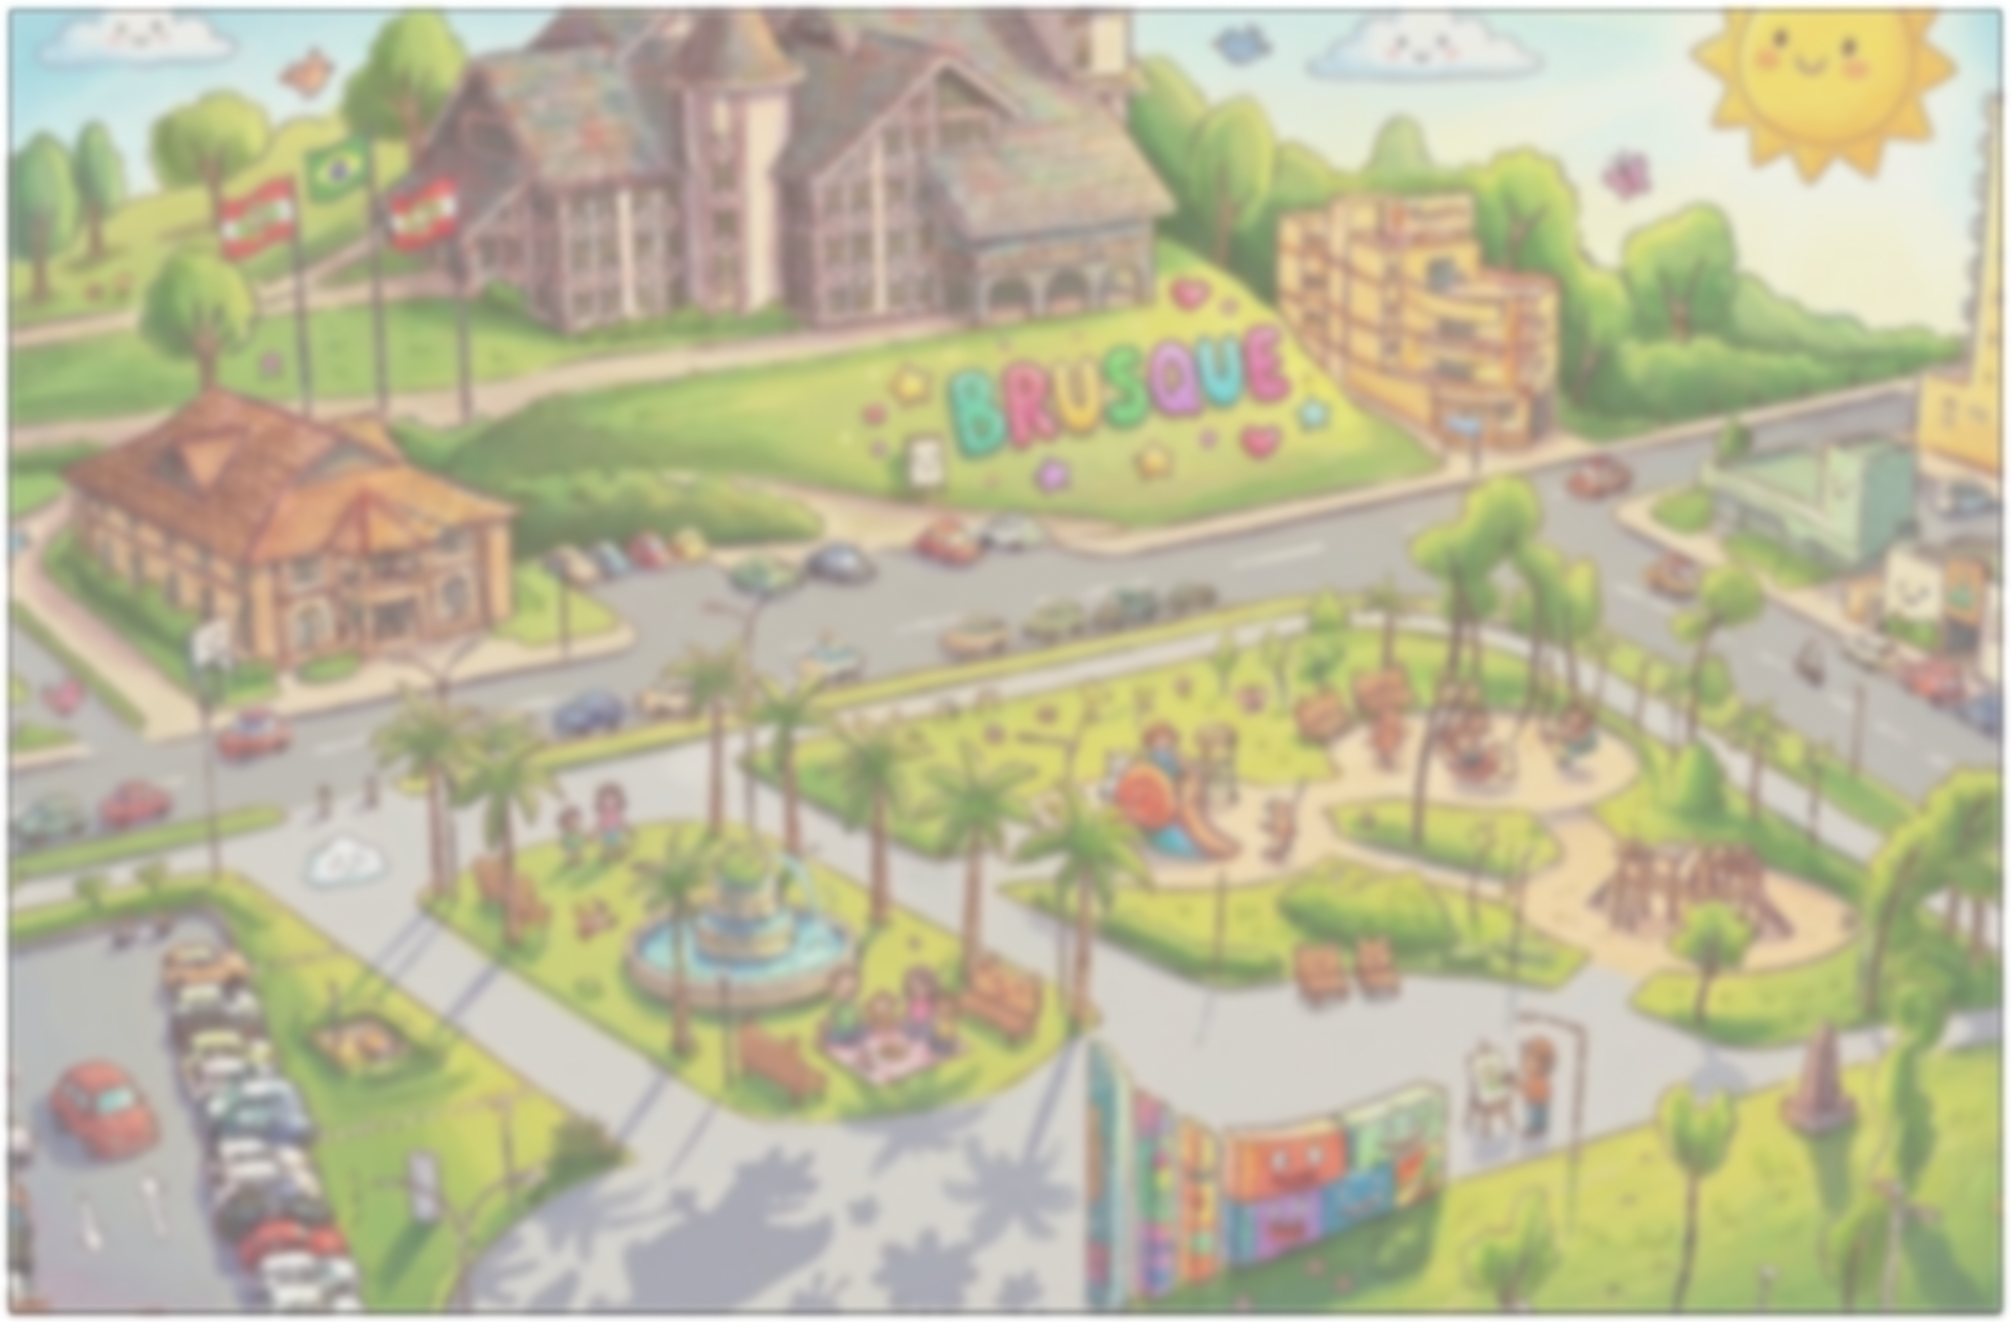
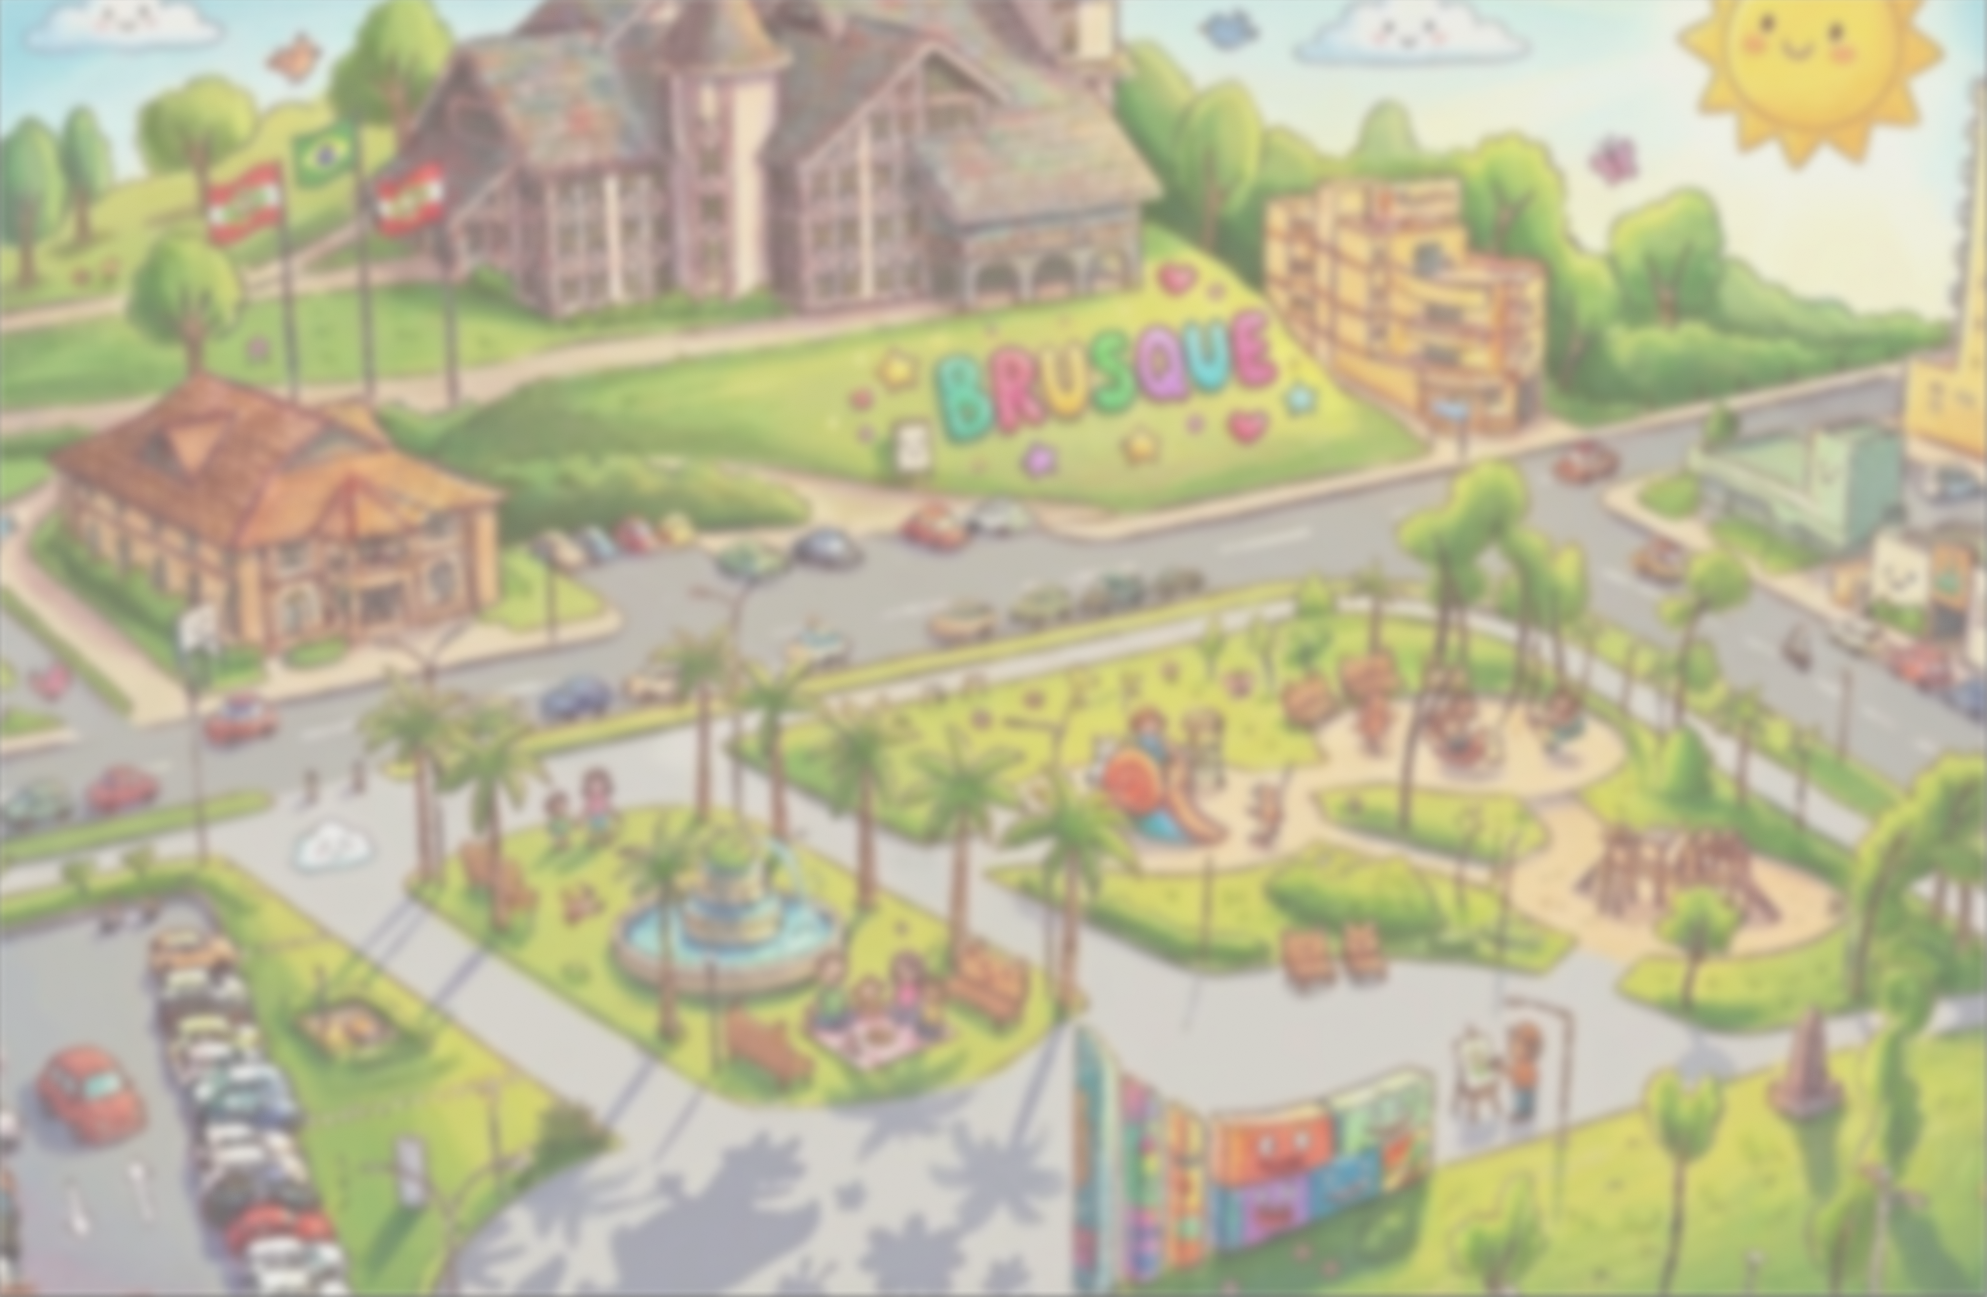
Inicio pagina home

diff --git a/index.html b/index.html
@@ -5,7 +5,7 @@
     <meta charset="UTF-8">
     <meta name="viewport" content="width=device-width, initial-scale=1.0">
 
-    <title>Exemplo Bootstrap 5.3.8</title>
+    <title>JOGO BRUSQUE</title>
 
     <!-- Bootstrap 5.3.8 CSS -->
     <link href="https://cdn.jsdelivr.net/npm/bootstrap@5.3.8/dist/css/bootstrap.min.css" rel="stylesheet">
@@ -15,67 +15,14 @@
 
 <body>
     <!-- Conteúdo -->
-    <div class="container py-5">
-
-        <div class="text-center mb-5">
-            <h1 class="display-4">Bootstrap 5.3.8</h1>
-            <p class="lead">
-                Exemplo básico utilizando CDN
-            </p>
-
-            <button class="btn btn-primary">
-                Botão Bootstrap
-            </button>
-        </div>
-
-        <!-- Cards -->
-        <div class="row g-4">
-
-            <div class="col-md-4">
-                <div class="card shadow-sm">
-                    <div class="card-body">
-                        <h5 class="card-title">Card 1</h5>
-                        <p class="card-text">
-                            Exemplo de card utilizando Bootstrap.
-                        </p>
-
-                        <a href="#" class="btn btn-outline-primary">
-                            Ver mais
-                        </a>
-                    </div>
+    <div class="container py-5 h-100">
+        <div class="row h-100">
+            <div class="col-12">
+                <div class="bg-transparent d-flex align-items-center justify-content-center h-100 flex-column">
+                    <h4>JOGO SOBRE</h4>
+                    <h1>BRUSQUE</h1>
                 </div>
             </div>
-
-            <div class="col-md-4">
-                <div class="card shadow-sm">
-                    <div class="card-body">
-                        <h5 class="card-title">Card 2</h5>
-                        <p class="card-text">
-                            Layout responsivo com grid.
-                        </p>
-
-                        <a href="#" class="btn btn-outline-success">
-                            Ver mais
-                        </a>
-                    </div>
-                </div>
-            </div>
-
-            <div class="col-md-4">
-                <div class="card shadow-sm">
-                    <div class="card-body">
-                        <h5 class="card-title">Card 3</h5>
-                        <p class="card-text">
-                            Componentes prontos e fáceis de usar.
-                        </p>
-
-                        <a href="#" class="btn btn-outline-danger">
-                            Ver mais
-                        </a>
-                    </div>
-                </div>
-            </div>
-
         </div>
     </div>
 

diff --git a/assets/css/style.css b/assets/css/style.css
@@ -1,5 +1,5 @@
  body {
-     background-image: url('../img/Fundo.png');
+     background-image: url('../img/fundo.png');
      background-size: cover;
      background-position: center;
      background-repeat: no-repeat;
@@ -11,4 +11,14 @@
      color: white;
      padding: 40px;
      border-radius: 15px;
+ }
+
+ @font-face {
+    font-family: 'chewy_bubble';
+     src: url(../fontes/chewy_bubble.otf);
+ }
+
+ * {
+     text-transform: uppercase !important;
+     font-family: 'chewy_bubble';
  }